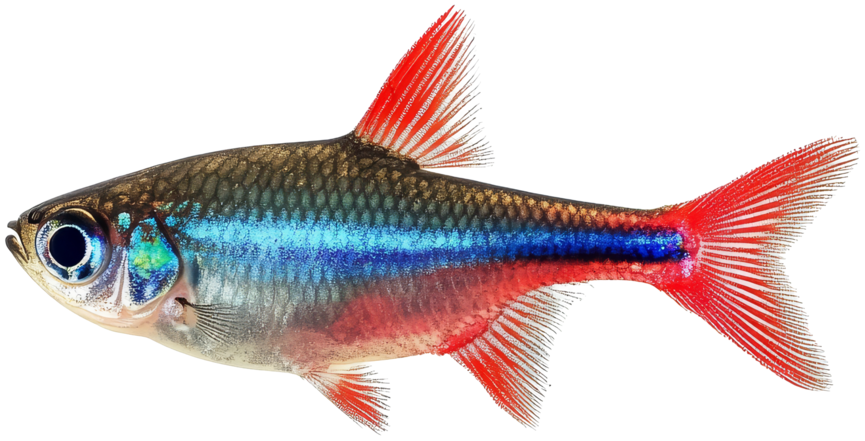
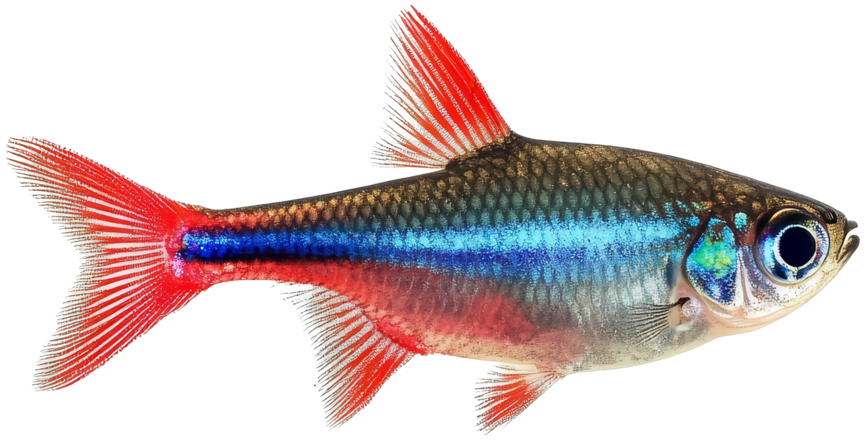
Flip fish PNG horizontally, tint with water lighting, and slow swimming speed

diff --git a/game.js b/game.js
@@ -9587,10 +9587,13 @@ window.game = this;
           bubble: new THREE.MeshBasicMaterial({ color: 0xe0f2fe, transparent: true, opacity: 0.75 }),
           tetraFish: new THREE.MeshStandardMaterial({
             map: tetraTex,
+            color: 0x93c5fd,
+            emissive: 0x0284c7,
+            emissiveIntensity: 0.28,
             transparent: true,
             alphaTest: 0.02,
-            roughness: 0.32,
-            metalness: 0.15,
+            roughness: 0.28,
+            metalness: 0.25,
             side: THREE.DoubleSide
           })
         };
@@ -9751,7 +9754,7 @@ window.game = this;
       // 8. Dynamic Living Fish (Clownfish, Neon Tetra [Custom PNG Texture with Flexing Spine], Golden Angelfish)
       const fishProfiles = [
         { species: 'clownfish', scale: 0.18, speed: 0.52, bodyColor: 0xea580c, finColor: 0xf97316, yOffset: 0.22, zLane: -0.12, dir: 1 },
-        { species: 'tetra', scale: 0.15, speed: 0.68, isPng: true, yOffset: 0.33, zLane: 0.12, dir: -1 },
+        { species: 'tetra', scale: 0.15, speed: 0.36, isPng: true, yOffset: 0.33, zLane: 0.12, dir: -1 },
         { species: 'angelfish', scale: 0.20, speed: 0.42, bodyColor: 0xfacc15, finColor: 0xfef9c3, yOffset: 0.44, zLane: 0.02, dir: 1 }
       ];
 
@@ -9925,7 +9928,8 @@ window.game = this;
         const fish = this.aquariumFish[i];
         if (fish.floor !== this.playerFloor) continue;
 
-        fish.phase += delta * 9.5;
+        const swimFreq = fish.isPng ? 5.5 : 9.5;
+        fish.phase += delta * swimFreq;
 
         if (fish.isPng && fish.rippleMesh && fish.baseGeoPositions) {
           // Dynamic traveling sine wave deformation across the fish spine and caudal fin
@@ -9937,8 +9941,8 @@ window.game = this;
           for (let v = 0; v < vertexCount; v++) {
             const bx = baseArray[v * 3];
             const by = baseArray[v * 3 + 1];
-            // Head is at +bx, tail is at -bx. Normalized tail progression (0 at snout, 1 at tail):
-            const tailProgress = Math.max(0, Math.min(1, (0.15 - bx) / 0.28));
+            // Head is at -bx, tail is at +bx. Normalized tail progression (0 at snout, 1 at tail):
+            const tailProgress = Math.max(0, Math.min(1, (bx + 0.15) / 0.28));
             const flex = tailProgress * tailProgress; // progressive natural spine flexing
             const lateralOffset = Math.sin(fish.phase * 1.05 - tailProgress * 4.2) * (0.024 * flex);
 

diff --git a/index.html b/index.html
@@ -421,7 +421,7 @@
     import * as CANNON from './libs/cannon-es.js';
     window.CANNON = CANNON;
     const gameScript = document.createElement('script');
-    gameScript.src = 'game.js?v=2.9.1794653500';
+    gameScript.src = 'game.js?v=2.9.1794654500';
     document.body.appendChild(gameScript);
   </script>
 </body>
